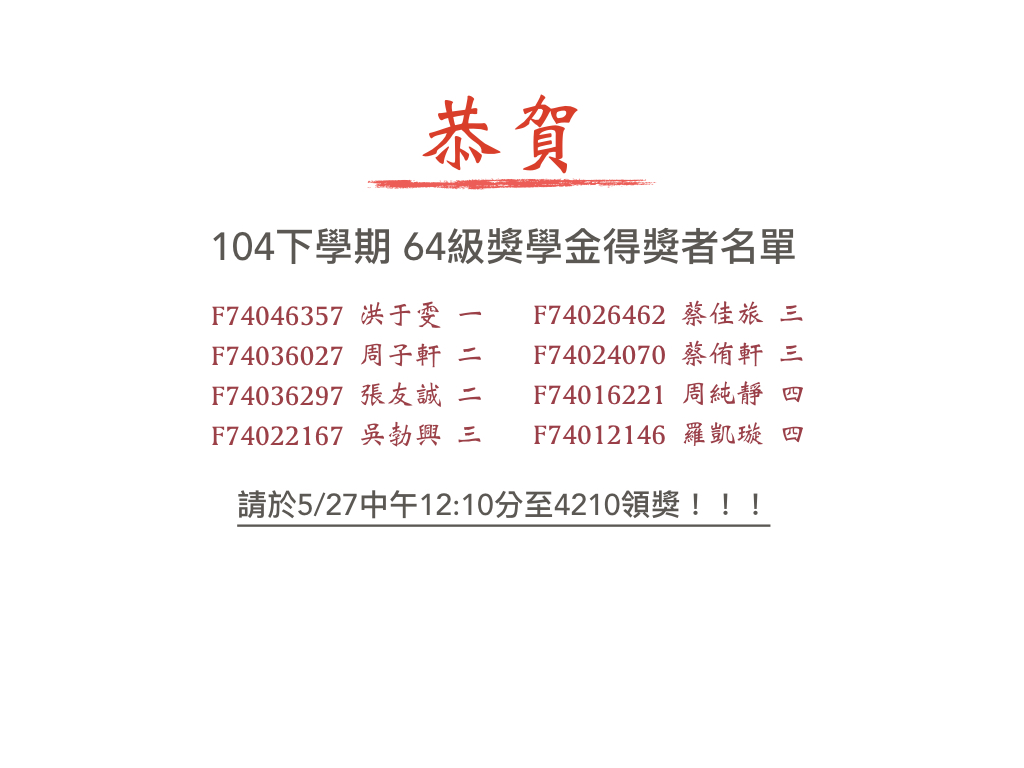
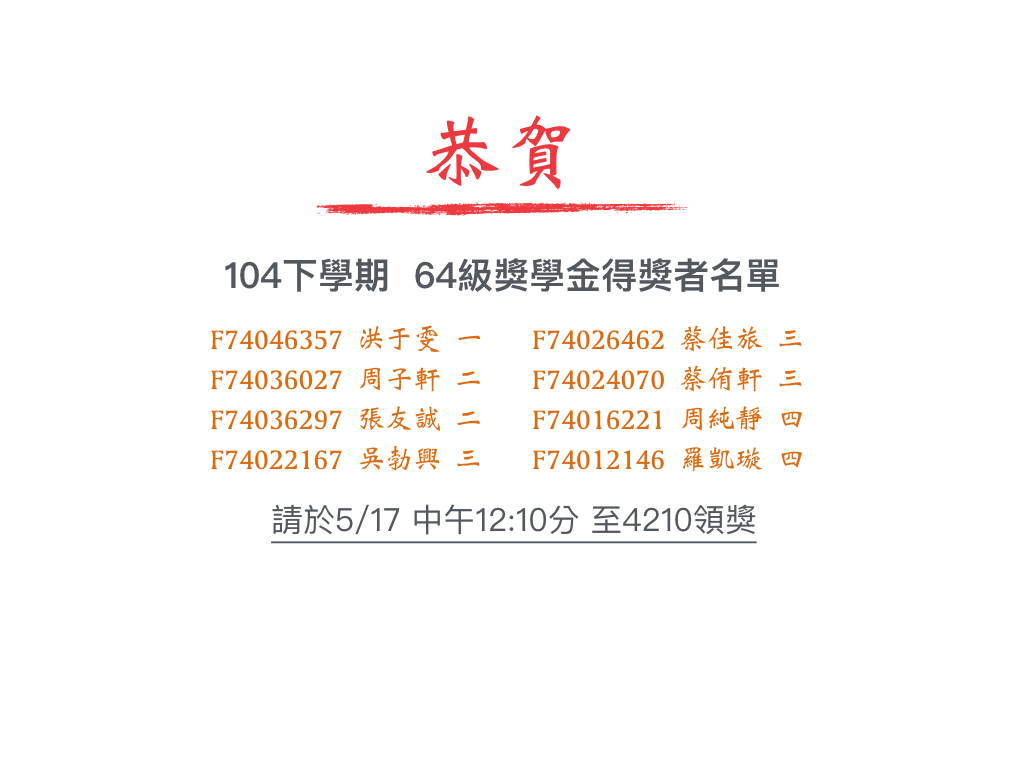
fix 64級公告

Changed region(s): [[0.1875, 0.125, 0.7812, 0.7188]]

diff --git a/index.js b/index.js
@@ -87,7 +87,7 @@ function animate() {
 	//64級獎學金
 	if (count == 10){
 		document.getElementById('content').children[0].innerHTML = "104下學期 64級獎學金得獎公告";
-		document.getElementById('content').children[1].innerHTML = "請於5/27中午12:10分 至4210領獎。";
+		document.getElementById('content').children[1].innerHTML = "請於5/17中午12:10分 至4210領獎。";
 	}
 	//碩博士獎項
 	if (count == 11){
